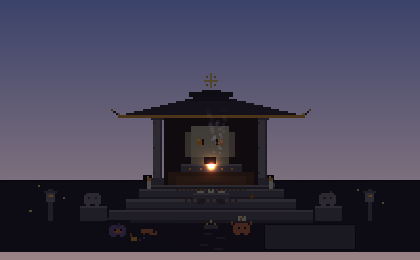
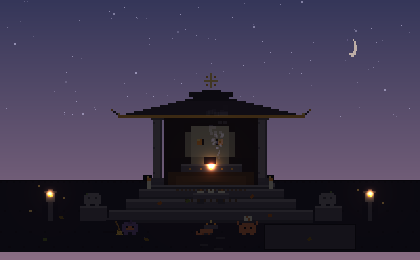
feat: the purple spirit becomes the keeper; close button; brighter nights; desynced stars; weary spirit rests
- keeper avatar = mask_purple from the source art, carrying a generated broom
  (leaning broom erased from ground; he sweeps with it at dawn, sleeps by the altar)
- hover-reveal [x] close button + single-instance plugin (no more immortal duplicates)
- night/dusk ambient raised — lanterns and candles glow in a readable dark
- stars twinkle on individual phase+rate via shader (no more synchronized chorus)
- the orange spirit occasionally slumps to rest his little arms

diff --git a/src/render/claudingView.ts b/src/render/claudingView.ts
@@ -1,40 +1,60 @@
 import * as THREE from 'three';
-import { loadTex } from './scene';
+import { loadTex, S } from './scene';
 import type { Activity } from '../core/clauding';
 
-const FRAMES = { idle: 0, step: 1, bow: 2, sleep: 3 } as const;
-export type Frame = keyof typeof FRAMES;
+export type Frame = 'idle' | 'step' | 'bow' | 'sleep';
 
-/** Named spots in scene coords. Tuned against the sliced layout (source/S mapping). */
+/** Named spots in scene coords. Tuned against the sliced layout. */
 export const SPOTS = {
   stepsBase: new THREE.Vector3(-30, -100, 26),
   plate: new THREE.Vector3(0, -92, 27),
-  sanctum: new THREE.Vector3(0, -18, 9),
+  sanctum: new THREE.Vector3(0, -18, 9),          // into the dark, for delivering offerings
+  sleepSpot: new THREE.Vector3(32, -46, 17),      // curled beside the altar, in candle glow
   candleL: new THREE.Vector3(-62, -55, 24),
   candleR: new THREE.Vector3(60, -55, 24),
   sweepA: new THREE.Vector3(-80, -95, 26),
-  sweepB: new THREE.Vector3(55, -95, 26),
-  sandEdge: new THREE.Vector3(-55, -105, 28),
+  sweepB: new THREE.Vector3(-15, -95, 26),       // clear of the sand bed AND the orange spirit's spot
+  sandEdge: new THREE.Vector3(38, -100, 26),     // admires the rake lines from the edge
+  homeCorner: new THREE.Vector3(-93, -98, 26),   // where he stood in the art, broom at hand
 };
+
+// the purple hooded spirit from the source art IS the keeper
+const KEEPER_W = 96 * S;  // ~25.2 virtual px
+const KEEPER_H = 75 * S;  // ~19.7
 
 export class ClaudingView {
   mesh: THREE.Mesh;
-  private tex: THREE.Texture;
+  private broom: THREE.Mesh;
+  private frame: Frame = 'idle';
+  private facing = 1;
   private target: THREE.Vector3 | null = null;
   private queue: THREE.Vector3[] = [];
   onArrive: (() => void) | null = null;
 
   constructor() {
-    this.tex = loadTex('clauding');
-    this.tex.repeat.set(0.25, 1);
     this.mesh = new THREE.Mesh(
-      new THREE.PlaneGeometry(16, 16),
-      new THREE.MeshLambertMaterial({ map: this.tex, transparent: true, alphaTest: 0.01 }),
+      new THREE.PlaneGeometry(KEEPER_W, KEEPER_H),
+      new THREE.MeshLambertMaterial({ map: loadTex('mask_purple'), transparent: true, alphaTest: 0.01 }),
     );
-    this.mesh.position.copy(SPOTS.stepsBase);
+    this.mesh.position.copy(SPOTS.homeCorner);
+
+    this.broom = new THREE.Mesh(
+      new THREE.PlaneGeometry(10, 15),
+      new THREE.MeshLambertMaterial({ map: loadTex('broom'), transparent: true, alphaTest: 0.01 }),
+    );
+    this.broom.position.set(KEEPER_W * 0.46, -3, 0.5); // held at his side, bristles down
+    this.broom.visible = false;
+    this.mesh.add(this.broom);
   }
 
-  setFrame(f: Frame) { this.tex.offset.x = FRAMES[f] * 0.25; }
+  setFrame(f: Frame) {
+    this.frame = f;
+    const m = this.mesh;
+    m.scale.set(this.facing, 1, 1);
+    m.rotation.z = 0;
+    if (f === 'bow') { m.scale.y = 0.8; m.rotation.z = 0.12 * this.facing; }
+    if (f === 'sleep') { m.scale.y = 0.86; m.rotation.z = 0.08; }
+  }
 
   walkTo(...pts: THREE.Vector3[]) {
     this.queue = [...pts];
@@ -58,20 +78,23 @@ export class ClaudingView {
         cb?.();
       }
     } else {
+      if (Math.abs(d.x) > 0.5) this.facing = d.x < 0 ? -1 : 1;
       p.add(d.setLength(step));
-      this.setFrame(Math.floor(t * 5) % 2 ? 'step' : 'idle'); // walk cycle
+      // little waddle instead of a walk cycle — he's a spirit, not a person
+      this.mesh.scale.set(this.facing, 1, 1);
+      this.mesh.rotation.z = Math.sin(t * 8) * 0.06;
+      if (this.broom.visible) this.broom.rotation.z = Math.sin(t * 8) * 0.18; // sweep-sweep
     }
   }
 
   /** Ambient behavior per activity when not walking; call each frame. */
   ambient(activity: Activity, t: number) {
+    this.broom.visible = activity === 'sweeping' || activity === 'tending';
     if (this.busy || activity === 'ceremony') return;
     if (activity === 'sleeping') {
-      this.setFrame('sleep');
-      this.mesh.position.copy(SPOTS.sanctum);
+      if (this.frame !== 'sleep') { this.setFrame('sleep'); this.mesh.position.copy(SPOTS.sleepSpot); }
       return;
     }
-    // wander cadence: act once when the second-counter crosses a slot boundary
     const slot = Math.floor(t);
     if (slot === this.lastSlot) return;
     this.lastSlot = slot;
@@ -80,9 +103,10 @@ export class ClaudingView {
     } else if (activity === 'lighting-candles' && slot % 12 === 0) {
       this.walkTo(Math.random() < 0.5 ? SPOTS.candleL : SPOTS.candleR);
     } else if (activity === 'tending' && slot % 15 === 0) {
-      this.walkTo(Math.random() < 0.5 ? SPOTS.sandEdge : SPOTS.stepsBase);
+      this.walkTo(Math.random() < 0.5 ? SPOTS.sandEdge : SPOTS.homeCorner);
     } else if (activity === 'idle') {
-      this.setFrame('idle');
+      if (this.frame !== 'idle') this.setFrame('idle');
+      if (slot % 40 === 0) this.walkTo(SPOTS.homeCorner); // drifts back to his corner
     }
   }
   private lastSlot = -1;

diff --git a/src/render/sky.ts b/src/render/sky.ts
@@ -13,9 +13,10 @@ const NEXT: Record<TimeOfDay, TimeOfDay> = { dawn: 'day', day: 'dusk', dusk: 'ni
 
 export class Sky {
   mesh: THREE.Mesh;
-  stars: THREE.Points;
+  stars!: THREE.Points;
   moon: THREE.Mesh;
   private mat: THREE.ShaderMaterial;
+  private starMat!: THREE.ShaderMaterial;
 
   constructor(moonTex: THREE.Texture) {
     this.mat = new THREE.ShaderMaterial({
@@ -29,19 +30,44 @@ export class Sky {
     this.mesh = new THREE.Mesh(new THREE.PlaneGeometry(VIRTUAL_W, VIRTUAL_H), this.mat);
     this.mesh.position.z = -50;
 
+    // each star twinkles on its own clock — phase and rate per star
     const n = 90;
     const pos = new Float32Array(n * 3);
+    const phase = new Float32Array(n);
+    const rate = new Float32Array(n);
+    const size = new Float32Array(n);
     for (let i = 0; i < n; i++) {
       pos[i * 3] = (Math.random() - 0.5) * VIRTUAL_W;
       pos[i * 3 + 1] = Math.random() * VIRTUAL_H * 0.45 + VIRTUAL_H * 0.05;
       pos[i * 3 + 2] = -49;
+      phase[i] = Math.random() * Math.PI * 2;
+      rate[i] = 0.4 + Math.random() * 1.8;      // slow breathers and quick flickerers
+      size[i] = i % 9 === 0 ? 2 : 1;            // the occasional brighter star
     }
     const g = new THREE.BufferGeometry();
     g.setAttribute('position', new THREE.BufferAttribute(pos, 3));
-    this.stars = new THREE.Points(
-      g,
-      new THREE.PointsMaterial({ color: 0xbcb8dc, size: 1, sizeAttenuation: false, transparent: true }),
-    );
+    g.setAttribute('aPhase', new THREE.BufferAttribute(phase, 1));
+    g.setAttribute('aRate', new THREE.BufferAttribute(rate, 1));
+    g.setAttribute('aSize', new THREE.BufferAttribute(size, 1));
+    this.starMat = new THREE.ShaderMaterial({
+      uniforms: { uTime: { value: 0 }, uAlpha: { value: 0 } },
+      vertexShader: `
+        attribute float aPhase, aRate, aSize;
+        varying float vTwinkle;
+        uniform float uTime;
+        void main() {
+          vTwinkle = 0.35 + 0.65 * (0.5 + 0.5 * sin(uTime * aRate + aPhase));
+          gl_PointSize = aSize;
+          gl_Position = projectionMatrix * modelViewMatrix * vec4(position, 1.0);
+        }`,
+      fragmentShader: `
+        varying float vTwinkle;
+        uniform float uAlpha;
+        void main() { gl_FragColor = vec4(0.74, 0.72, 0.86, uAlpha * vTwinkle); }`,
+      transparent: true,
+      depthWrite: false,
+    });
+    this.stars = new THREE.Points(g, this.starMat);
 
     this.moon = new THREE.Mesh(
       new THREE.PlaneGeometry(28, 28),
@@ -58,8 +84,8 @@ export class Sky {
     (this.mat.uniforms.top.value as THREE.Color).lerpColors(SKY[tod][0], SKY[NEXT[tod]][0], b);
     (this.mat.uniforms.bot.value as THREE.Color).lerpColors(SKY[tod][1], SKY[NEXT[tod]][1], b);
     const starAlpha = tod === 'night' ? 1 : tod === 'dusk' ? b : tod === 'dawn' ? 1 - b : 0;
-    const m = this.stars.material as THREE.PointsMaterial;
-    m.opacity = starAlpha * (0.7 + 0.3 * Math.sin(t * 0.8)); // gentle collective twinkle
+    this.starMat.uniforms.uTime.value = t;
+    this.starMat.uniforms.uAlpha.value = starAlpha;
     const moonMat = this.moon.material as THREE.MeshBasicMaterial;
     moonMat.opacity = starAlpha;
     // crude but honest phase: horizontal squash of the crescent toward new moon

diff --git a/src/render/critters.ts b/src/render/critters.ts
@@ -7,7 +7,8 @@ interface Critter {
   kind: CritterKind;
   home: THREE.Vector3;
   range: number;         // how far from home it may wander (x)
-  mode: 'idle' | 'walk' | 'hop';
+  mode: 'idle' | 'walk' | 'hop' | 'slump';
+  slumpUntil: number;
   targetX: number;
   nextAt: number;        // t when the next action may begin
   hopStart: number;
@@ -29,6 +30,7 @@ export class Critters {
       nextAt: 4 + Math.random() * 20,
       hopStart: 0,
       facing: 1,
+      slumpUntil: 0,
     });
   }
 
@@ -40,11 +42,17 @@ export class Critters {
           c.mode = 'walk';
           c.targetX = c.home.x + (Math.random() * 2 - 1) * c.range;
         } else {
-          // spirits mostly hop in place; sometimes just turn to look around
-          if (Math.random() < 0.35) {
+          // spirits mostly hop in place; sometimes turn to look around;
+          // sometimes rest their little arms — holding things up all day is hard work
+          const roll = Math.random();
+          if (roll < 0.3) {
             c.facing *= -1;
             c.mesh.scale.x = Math.abs(c.mesh.scale.x) * c.facing;
             c.nextAt = t + 10 + Math.random() * 30;
+          } else if (roll < 0.55) {
+            c.mode = 'slump';
+            c.hopStart = t; // reuse as slump start for the ease-in
+            c.slumpUntil = t + 6 + Math.random() * 12;
           } else {
             c.mode = 'hop';
             c.hopStart = t;
@@ -68,6 +76,18 @@ export class Critters {
         } else {
           c.mesh.position.x += dir * step;
           c.mesh.position.y = c.home.y + Math.abs(Math.sin(t * 7)) * 0.6; // soft amble
+        }
+      } else if (c.mode === 'slump') {
+        if (t >= c.slumpUntil) {
+          c.mesh.rotation.z = 0;
+          c.mesh.scale.y = 1;
+          c.mode = 'idle';
+          c.nextAt = t + 12 + Math.random() * 30;
+        } else {
+          // ease into a weary little lean
+          const k = Math.min(1, (t - c.hopStart) / 1.5);
+          c.mesh.rotation.z = 0.1 * c.facing * k;
+          c.mesh.scale.y = 1 - 0.06 * k;
         }
       } else if (c.mode === 'hop') {
         const k = (t - c.hopStart) / 0.38;

diff --git a/src/main.ts b/src/main.ts
@@ -36,6 +36,25 @@ async function boot() {
   const canvas = document.createElement('canvas');
   document.querySelector('#app')!.appendChild(canvas);
 
+  // a quiet [x], top right — barely there until you look for it
+  const closeBtn = document.createElement('div');
+  closeBtn.textContent = '×';
+  closeBtn.style.cssText =
+    'position:fixed;top:4px;right:10px;font:18px monospace;color:#cfc8e0;' +
+    'opacity:0.18;cursor:pointer;z-index:10;user-select:none;padding:2px 6px;' +
+    'transition:opacity 0.2s';
+  closeBtn.onmouseenter = () => (closeBtn.style.opacity = '0.9');
+  closeBtn.onmouseleave = () => (closeBtn.style.opacity = '0.18');
+  closeBtn.onclick = async () => {
+    if ('__TAURI_INTERNALS__' in window) {
+      const { getCurrentWindow } = await import('@tauri-apps/api/window');
+      await getCurrentWindow().close();
+    } else {
+      window.close();
+    }
+  };
+  document.body.appendChild(closeBtn);
+
   const px = new PixelRenderer(canvas);
   const bridge = await makeBridge();
   const { scene, camera, layers } = await buildShrineScene();
@@ -62,6 +81,7 @@ async function boot() {
   const brain = new ClaudingBrain();
   const view = new ClaudingView();
   scene.add(view.mesh);
+  layers.get('mask_purple')?.removeFromParent(); // he's not scenery anymore — he's the keeper
 
   const moths = new Moths([candleL, candleR]);
   scene.add(moths.group);
@@ -75,10 +95,9 @@ async function boot() {
   const lanternBugs = new Moths(lanternPos, 4, 0xf0c860, 6);
   scene.add(lanternBugs.group);
 
-  // the garden's small residents
+  // the garden's small residents (the purple one is the keeper now, not a critter)
   const critters = new Critters();
   critters.add(layers.get('cat'), 'cat', 34);
-  critters.add(layers.get('mask_purple'), 'mask', 8);
   critters.add(layers.get('mask_orange'), 'mask', 8);
 
   // --- the tended ground ---

diff --git a/src/render/lights.ts b/src/render/lights.ts
@@ -43,7 +43,7 @@ export class Lights {
   update(now: Date, t: number) {
     const tod = timeOfDay(now);
     this.ambient.intensity =
-      ({ dawn: 0.72, day: 1.0, dusk: 0.6, night: 0.4 } as const)[tod] * (1 - this.dim);
+      ({ dawn: 0.78, day: 1.05, dusk: 0.72, night: 0.58 } as const)[tod] * (1 - this.dim);
     const flicker = () => 0.85 + 0.15 * Math.sin(t * 7 + Math.sin(t * 3.1)) * Math.sin(t * 11.7);
     const base = this.candlesLit ? (tod === 'night' ? 2.2 : tod === 'dusk' ? 1.6 : 0.5) : 0;
     this.candleL.intensity = (base + this.candlesBoost) * flicker() * CANDLE_POWER;

diff --git a/src/render/scene.ts b/src/render/scene.ts
@@ -73,7 +73,7 @@ export async function buildShrineScene(): Promise<ShrineScene> {
   const scene = new THREE.Scene();
   const camera = makeCamera();
   const manifest = await loadManifest();
-  await preloadTextures([...Object.keys(manifest).filter(n => n !== 'sky' && n !== 'stars'), 'clauding']);
+  await preloadTextures([...Object.keys(manifest).filter(n => n !== 'sky' && n !== 'stars'), 'broom']);
   const layers = new Map<string, THREE.Mesh>();
   for (const [name, e] of Object.entries(manifest)) {
     if (name === 'sky' || name === 'stars') continue; // sky is generated, not sliced

diff --git a/tools/make_broom.py b/tools/make_broom.py
@@ -1,0 +1,32 @@
+"""Draw the keeper's little broom (12x18), palette matched to the source art."""
+import pathlib
+
+from PIL import Image
+
+HANDLE = (154, 106, 62, 255)
+HANDLE_HI = (186, 134, 82, 255)
+TIE = (106, 74, 46, 255)
+BRISTLE = (224, 176, 80, 255)
+BRISTLE_HI = (240, 200, 110, 255)
+
+im = Image.new("RGBA", (12, 18), (0, 0, 0, 0))
+# diagonal handle, 2px wide, from top-right to lower-left
+for i in range(10):
+    x = 8 - i // 2
+    y = 1 + i
+    im.putpixel((x, y), HANDLE_HI if i % 3 == 0 else HANDLE)
+    im.putpixel((x + 1, y), HANDLE)
+# tie
+im.putpixel((3, 11), TIE)
+im.putpixel((4, 11), TIE)
+im.putpixel((5, 11), TIE)
+# bristle fan
+for y in range(12, 17):
+    spread = y - 10
+    for x in range(4 - spread // 2 - 1, 5 + spread // 2 + 1):
+        if 0 <= x < 12:
+            im.putpixel((x, y), BRISTLE_HI if (x + y) % 4 == 0 else BRISTLE)
+
+out = pathlib.Path(__file__).resolve().parents[1] / "public" / "sprites" / "broom.png"
+im.save(out)
+print("wrote", out)

diff --git a/src-tauri/src/lib.rs b/src-tauri/src/lib.rs
@@ -10,6 +10,13 @@ use tauri::{
 #[cfg_attr(mobile, tauri::mobile_entry_point)]
 pub fn run() {
     tauri::Builder::default()
+        .plugin(tauri_plugin_single_instance::init(|app, _args, _cwd| {
+            // a second launch just visits the existing shrine
+            if let Some(w) = app.get_webview_window("main") {
+                let _ = w.show();
+                let _ = w.set_focus();
+            }
+        }))
         .invoke_handler(tauri::generate_handler![
             shrine::move_to_reliquary,
             shrine::append_ledger,

diff --git a/tools/slice_sprites.py b/tools/slice_sprites.py
@@ -57,6 +57,8 @@ def slice_all():
             erase_from(im, r["rect"], r.get("sampleSide", "left"))
     manifest = {}
     for name, r in spec["layers"].items():
+        if r.get("noTile"):
+            continue  # erased from parents only (e.g. the leaning broom — the keeper carries one now)
         x, y, w, h = r["rect"]
         src = original if r.get("eraseFromParent") else im
         tile = src.crop((x, y, x + w, y + h))